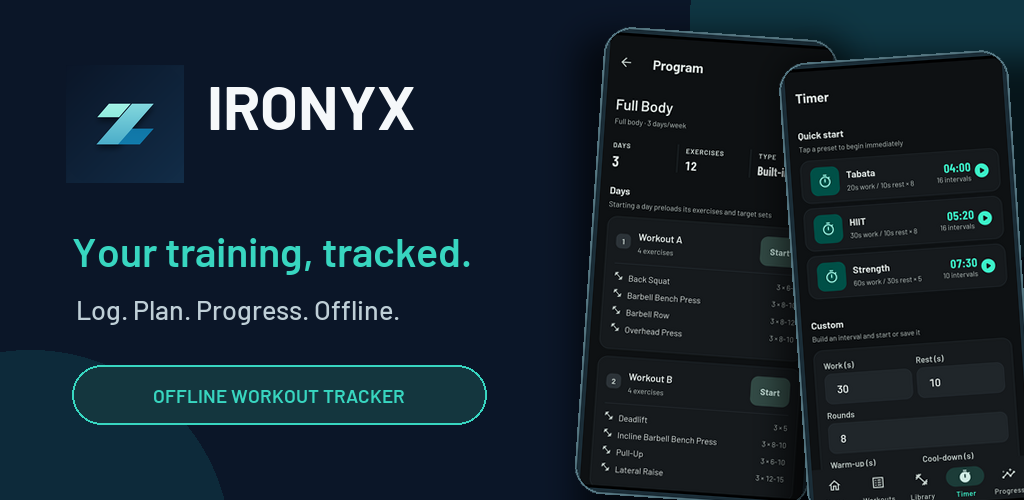
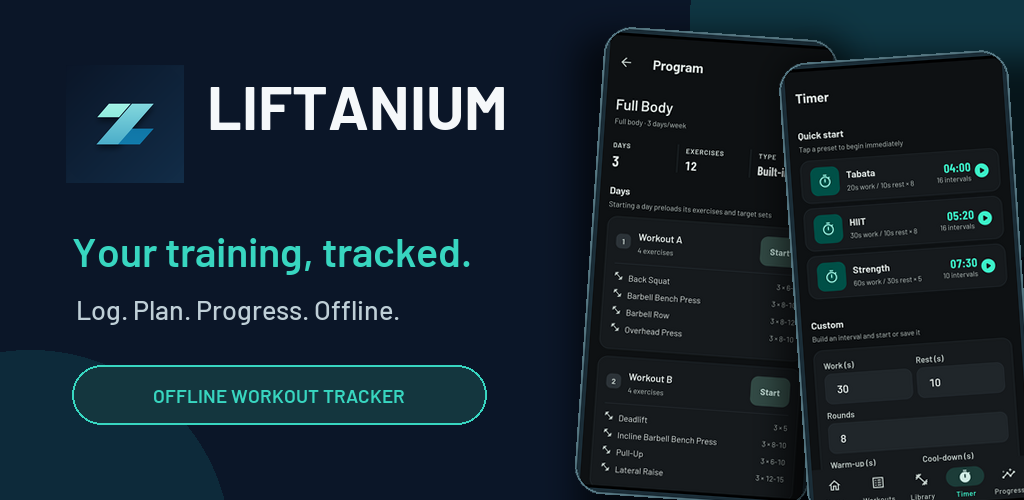
feat(brand): rename the app to Liftanium (display names only)
What users read changes: launcher label, iOS display name, app title and
the strings that name the app (en, ar), import messages, export file
names, the Pages site, the privacy policy, the store listing copy and the
two generated store images.

Identifiers stay: com.soshe90.ironyx (Play binds the listing to it), the
auth deep-link scheme, the Dart package, the database file, seed
provenance, asset names and the Pages URLs. A test pins both halves.

Changed region(s): [[0.2188, 0.15, 0.5, 0.27]]

diff --git a/lib/features/settings/domain/export_envelope.dart b/lib/features/settings/domain/export_envelope.dart
@@ -8,7 +8,7 @@ enum ImportMode { merge, replace }
 /// translated sentence (see `ImportValidationL10n`), where the 22 refusals
 /// each had their own English message, shown as they were in any language.
 enum ImportProblem {
-  /// The file is not an Ironyx export at all.
+  /// The file is not a Liftanium export at all.
   notAnExport,
 
   /// Made by a newer version of the app: updating the app fixes it.
@@ -82,29 +82,32 @@ class ImportEnvelope {
 
   /// Parses and validates the envelope header. Throws
   /// [ImportValidationException] with a user-facing message if the file
-  /// isn't a Ironyx export or carries an unrecognized [formatVersion].
+  /// isn't a Liftanium export or carries an unrecognized [formatVersion].
   factory ImportEnvelope.parse(String jsonContent,
       {required int currentFormatVersion}) {
     final Object? decoded;
     try {
       decoded = jsonDecode(jsonContent);
     } on FormatException {
-      throw ImportValidationException('This file is not a valid Ironyx export.',
+      throw ImportValidationException(
+          'This file is not a valid Liftanium export.',
           problem: ImportProblem.notAnExport);
     }
     if (decoded is! Map<String, dynamic>) {
-      throw ImportValidationException('This file is not a valid Ironyx export.',
+      throw ImportValidationException(
+          'This file is not a valid Liftanium export.',
           problem: ImportProblem.notAnExport);
     }
 
     final Object? rawFormatVersion = decoded['formatVersion'];
     if (rawFormatVersion is! int) {
-      throw ImportValidationException('This file is not a valid Ironyx export.',
+      throw ImportValidationException(
+          'This file is not a valid Liftanium export.',
           problem: ImportProblem.notAnExport);
     }
     if (rawFormatVersion > currentFormatVersion) {
       throw ImportValidationException(
-        'This backup was made with a newer version of Ironyx '
+        'This backup was made with a newer version of Liftanium '
         '(format $rawFormatVersion). Update the app before importing.',
         problem: ImportProblem.madeByNewerApp,
       );
@@ -125,13 +128,15 @@ class ImportEnvelope {
         rawAppVersion.trim().isEmpty ||
         rawExportedAt is! String ||
         DateTime.tryParse(rawExportedAt) == null) {
-      throw ImportValidationException('This file is not a valid Ironyx export.',
+      throw ImportValidationException(
+          'This file is not a valid Liftanium export.',
           problem: ImportProblem.notAnExport);
     }
 
     final Object? rawTables = decoded['tables'];
     if (rawTables is! Map<String, dynamic>) {
-      throw ImportValidationException('This file is not a valid Ironyx export.',
+      throw ImportValidationException(
+          'This file is not a valid Liftanium export.',
           problem: ImportProblem.notAnExport);
     }
     final Map<String, List<Map<String, Object?>>> tables;
@@ -144,7 +149,8 @@ class ImportEnvelope {
               .toList(),
       };
     } on TypeError {
-      throw ImportValidationException('This file is not a valid Ironyx export.',
+      throw ImportValidationException(
+          'This file is not a valid Liftanium export.',
           problem: ImportProblem.notAnExport);
     }
 

diff --git a/test/unit/android_manifest_test.dart b/test/unit/android_manifest_test.dart
@@ -104,4 +104,30 @@ void main() {
         RegExp(r'release\s*\{.*', dotAll: true).firstMatch(gradle)!.group(0)!;
     expect(release, isNot(contains('applicationIdSuffix')));
   });
+
+  // The 2026-11-15 rename to Liftanium changed only what users read. The
+  // launcher label is set outside Dart, so nothing else notices if it drifts
+  // from the in-app title. The ids must NOT follow the name: Play ties the
+  // listing to the application id for good, and the auth deep-link scheme
+  // is on the Supabase redirect allow-list.
+  test('launcher names match the app title; store ids and scheme do not move',
+      () {
+    final Map<String, dynamic> arb =
+        jsonDecode(File('lib/l10n/app_en.arb').readAsStringSync())
+            as Map<String, dynamic>;
+    final String title = arb['appTitle'] as String;
+    expect(title, 'Liftanium');
+
+    expect(manifest, contains('android:label="$title"'));
+    expect(manifest, contains('android:scheme="com.soshe90.ironyx"'));
+
+    final String plist = File('ios/Runner/Info.plist').readAsStringSync();
+    expect(
+      RegExp('<key>CFBundleDisplayName</key>\\s*<string>$title</string>')
+          .hasMatch(plist),
+      isTrue,
+      reason: 'iOS CFBundleDisplayName must match appTitle',
+    );
+    expect(plist, contains('<string>com.soshe90.ironyx</string>'));
+  });
 }

diff --git a/lib/features/settings/presentation/widgets/data_management_section.dart b/lib/features/settings/presentation/widgets/data_management_section.dart
@@ -91,10 +91,10 @@ class DataManagementSection extends ConsumerWidget {
         DateTime.now().toIso8601String().replaceAll(RegExp('[:.]'), '-');
     final (String fileName, String mimeType) = switch (format) {
       _ExportFormat.json => (
-          'ironyx_backup_$timestamp.json',
+          'liftanium_backup_$timestamp.json',
           'application/json'
         ),
-      _ExportFormat.csv => ('ironyx_export_$timestamp.csv', 'text/csv'),
+      _ExportFormat.csv => ('liftanium_export_$timestamp.csv', 'text/csv'),
     };
 
     // Built behind a progress dialog: it reads every table, and the tile

diff --git a/lib/core/services/export_schema_upgrades.dart b/lib/core/services/export_schema_upgrades.dart
@@ -121,7 +121,7 @@ ImportEnvelope upgradeEnvelope(
   if (from == toSchemaVersion) return envelope;
   if (from > toSchemaVersion) {
     throw ImportValidationException(
-      'This backup was made by a newer version of Ironyx (database schema '
+      'This backup was made by a newer version of Liftanium (database schema '
       '$from; this app uses $toSchemaVersion). Update the app before '
       'importing it.',
       problem: ImportProblem.madeByNewerApp,

diff --git a/lib/core/services/data_export_service.dart b/lib/core/services/data_export_service.dart
@@ -214,7 +214,7 @@ class DataExportService {
 
   /// Parses and validates an export file's contents. Throws
   /// [ImportValidationException] (safe to show directly to the user) if the
-  /// file isn't a valid, current-version Ironyx export.
+  /// file isn't a valid, current-version Liftanium export.
   ImportEnvelope parseImport(String jsonContent) =>
       _parseExportEnvelope(jsonContent);
 

diff --git a/test/widget/welcome_page_test.dart b/test/widget/welcome_page_test.dart
@@ -58,7 +58,7 @@ void main() {
       (tester) async {
     await pumpWelcome(tester);
 
-    expect(find.text('Ironyx'), findsOneWidget);
+    expect(find.text('Liftanium'), findsOneWidget);
     expect(find.text('Your training, tracked.'), findsOneWidget);
     expect(find.text('Log every set and rep'), findsOneWidget);
     expect(find.text('Charts that show progress'), findsOneWidget);

diff --git a/test/widget/settings_page_test.dart b/test/widget/settings_page_test.dart
@@ -264,7 +264,7 @@ void main() {
       // to confirm the tile actually navigates there, without coupling this
       // test to Flutter's internal LicensePage implementation or to
       // `LicenseRegistry`'s global, test-run-wide registration state.
-      expect(find.text('Ironyx'), findsWidgets);
+      expect(find.text('Liftanium'), findsWidgets);
     });
 
     testWidgets(

diff --git a/scripts/create_store_overview.py b/scripts/create_store_overview.py
@@ -108,7 +108,7 @@ def create_feature_graphic() -> None:
     icon = icon.resize((118, 118), Image.Resampling.LANCZOS)
     canvas.paste(icon, (66, 65))
     draw = ImageDraw.Draw(canvas)
-    draw.text((207, 69), "IRONYX", font=font("Barlow-Bold.ttf", 61), fill=(245, 248, 250))
+    draw.text((207, 69), "LIFTANIUM", font=font("Barlow-Bold.ttf", 61), fill=(245, 248, 250))
     draw.text((72, 226), "Your training, tracked.", font=font("Barlow-SemiBold.ttf", 41), fill=(56, 214, 192))
     draw.text((76, 293), "Log. Plan. Progress. Offline.", font=font("Barlow-Medium.ttf", 27), fill=(191, 207, 215))
     draw.rounded_rectangle((72, 365, 486, 424), radius=29, fill=(20, 54, 62), outline=(56, 214, 192), width=2)
@@ -128,7 +128,7 @@ def main() -> None:
     draw.ellipse((790, -230, 1320, 300), fill=(15, 54, 67))
     draw.ellipse((-260, 1500, 300, 2060), fill=(13, 42, 58))
 
-    draw.text((76, 64), "IRONYX  /  WORKOUT TRACKER", font=font("Barlow-Bold.ttf", 25), fill=(56, 214, 192))
+    draw.text((76, 64), "LIFTANIUM  /  WORKOUT TRACKER", font=font("Barlow-Bold.ttf", 25), fill=(56, 214, 192))
     draw.text((72, 123), "Your training,", font=font("Barlow-SemiBold.ttf", 87), fill=(245, 248, 250))
     draw.text((72, 218), "tracked.", font=font("Barlow-SemiBold.ttf", 87), fill=(56, 214, 192))
     draw.text((78, 331), "Plan sessions. Log every set. Keep progressing.", font=font("Barlow-Medium.ttf", 34), fill=(191, 207, 215))

diff --git a/linux/runner/my_application.cc b/linux/runner/my_application.cc
@@ -45,11 +45,11 @@ static void my_application_activate(GApplication* application) {
   if (use_header_bar) {
     GtkHeaderBar* header_bar = GTK_HEADER_BAR(gtk_header_bar_new());
     gtk_widget_show(GTK_WIDGET(header_bar));
-    gtk_header_bar_set_title(header_bar, "ironyx");
+    gtk_header_bar_set_title(header_bar, "Liftanium");
     gtk_header_bar_set_show_close_button(header_bar, TRUE);
     gtk_window_set_titlebar(window, GTK_WIDGET(header_bar));
   } else {
-    gtk_window_set_title(window, "ironyx");
+    gtk_window_set_title(window, "Liftanium");
   }
 
   gtk_window_set_default_size(window, 1280, 720);

diff --git a/docs/STORE_LISTING.md b/docs/STORE_LISTING.md
@@ -1,4 +1,4 @@
-# Play Store listing — Ironyx
+# Play Store listing — Liftanium
 
 Draft copy. Character counts noted so it drops straight into Play Console.
 Swap wording freely — the positioning (offline-first, private, no forced
@@ -25,9 +25,9 @@ them against the live consoles.
 ## App name (30 char max)
 
 ```
-Ironyx: Offline Workout Log
+Liftanium: Offline Workout Log
 ```
-(27 characters)
+(30 characters: exactly the limit)
 
 ## Short description (80 char max)
 
@@ -49,7 +49,7 @@ Log every set, follow your training plan, and see your progress — offline.
 ### English
 
 ```
-Make every workout count with Ironyx, a workout tracker that keeps your training log on your device and works offline.
+Make every workout count with Liftanium, a workout tracker that keeps your training log on your device and works offline.
 
 LOG YOUR WORKOUTS
 Record exercises, sets, reps, and weights as you train. Check your workout history whenever you need it, and use the built-in rest timer to stay focused between sets.
@@ -61,7 +61,7 @@ SEE HOW YOU’RE PROGRESSING
 Follow your training over time with charts for workout volume, estimated one-rep max, and consistency. Your history helps you see the work behind your progress.
 
 YOUR TRAINING, YOUR CHOICE
-No account is needed to use the core workout tracker. Your workouts are stored on your device, and Ironyx does not show ads or use analytics. If you choose to create an account, you can manually back up your data to the cloud. Nothing is backed up until you choose “Back up now.”
+No account is needed to use the core workout tracker. Your workouts are stored on your device, and Liftanium does not show ads or use analytics. If you choose to create an account, you can manually back up your data to the cloud. Nothing is backed up until you choose “Back up now.”
 
 TRAIN OFFLINE
 No internet at the gym? Keep logging workouts, using your programs and timer, and viewing your progress offline.
@@ -74,7 +74,7 @@ Questions or feedback: mustafa.salih15@gmail.com
 ### Arabic
 
 ```
-اجعل لكل تمرين قيمة مع Ironyx، تطبيق يساعدك على تسجيل تدريباتك ومتابعة تقدمك، مع حفظ سجلّك على جهازك وإمكانية استخدام الميزات الأساسية دون إنترنت.
+اجعل لكل تمرين قيمة مع Liftanium، تطبيق يساعدك على تسجيل تدريباتك ومتابعة تقدمك، مع حفظ سجلّك على جهازك وإمكانية استخدام الميزات الأساسية دون إنترنت.
 
 سجّل تمارينك
 دوّن التمارين والمجموعات والتكرارات والأوزان أثناء التدريب، وارجع إلى سجل تمارينك متى احتجت. استخدم مؤقّت الراحة المدمج لتنظيم فترات الراحة بين المجموعات.
@@ -86,7 +86,7 @@ Questions or feedback: mustafa.salih15@gmail.com
 استخدم الرسوم البيانية لمتابعة حجم التدريب، والقوة التقديرية لتكرار واحد، وانتظامك في التمرين بمرور الوقت. راجع سجلّك لترى كيف يتراكم جهدك.
 
 تدريبك وبياناتك تحت اختيارك
-لا تحتاج إلى حساب لاستخدام الميزات الأساسية. تُحفظ تمارينك على جهازك، ولا يعرض Ironyx إعلانات ولا يستخدم أدوات التحليلات. إذا رغبت، يمكنك إنشاء حساب وعمل نسخة احتياطية من بياناتك على السحابة يدويًا. لا تُرفع بياناتك حتى تختار «النسخ الاحتياطي الآن».
+لا تحتاج إلى حساب لاستخدام الميزات الأساسية. تُحفظ تمارينك على جهازك، ولا يعرض Liftanium إعلانات ولا يستخدم أدوات التحليلات. إذا رغبت، يمكنك إنشاء حساب وعمل نسخة احتياطية من بياناتك على السحابة يدويًا. لا تُرفع بياناتك حتى تختار «النسخ الاحتياطي الآن».
 
 تدرّب دون إنترنت
 لا يوجد اتصال بالإنترنت في النادي؟ واصل تسجيل تمارينك واستخدام برامجك والمؤقّت والاطلاع على تقدمك دون اتصال.
@@ -196,7 +196,7 @@ build does not support just because a row here says so.
 
 | Play Console form | Answer |
 |---|---|
-| App details | Name `Ironyx: Offline Workout Log`; **App**, **Free**; category **Health & Fitness**; contact `mustafa.salih15@gmail.com` |
+| App details | Name `Liftanium: Offline Workout Log`; **App**, **Free**; category **Health & Fitness**; contact `mustafa.salih15@gmail.com` |
 | Store listing | Short and full description from above; icon `assets/branding/ironyx-icon-512-opaque.png`; feature graphic (S2); the screenshots (S1) |
 | App access | **All functionality is available without special access.** Accounts are optional and unlock only cloud backup, so no test login is needed |
 | Ads | **No**, the app contains no ads |
@@ -223,7 +223,7 @@ subtitle and keywords.
 
 | Field | Draft | Length |
 |---|---|---|
-| Name | `Ironyx: Workout Log` | 19 |
+| Name | `Liftanium: Workout Log` | 22 |
 | Subtitle | `Offline. Private. No account.` | 29 |
 | Keywords | `gym,lifting,strength,training,tracker,routine,progress,1RM,program,rest timer,exercise,fitness` | 94 |
 
@@ -240,7 +240,7 @@ questionnaire (same answers as Data Safety above).
 | "No account required. No internet required." | True — auth is optional and everything core is local |
 | "Pick from a library of 300+ exercises" | True — 304, seed v18 (the earlier plan said 150) |
 | "A built-in rest timer **with sound** and haptics" | **True on Android** as of 2026-09-20: three bundled cues (countdown, phase change, completion) play through `just_audio`, ducking other audio — confirmed in logcat on an Android 15 emulator's release build. Not yet heard on a physical device, and not checked on iOS at all. Re-verify both before claiming it for iOS |
-| "Ironyx does not run ads or analytics" | True today (no such SDK in `pubspec.yaml`). **Breaks if D2 adds Sentry** — crash reporting is not "analytics", but the privacy policy currently says "no crash-reporting service" too |
+| "Liftanium does not run ads or analytics" | True today (no such SDK in `pubspec.yaml`). **Breaks if D2 adds Sentry** — crash reporting is not "analytics", but the privacy policy currently says "no crash-reporting service" too |
 | "Your local training log stays on your device unless you explicitly enable cloud backup" | True. Nothing uploads without tapping "Back up now" |
 | "Charts show volume, estimated one-rep max, and consistency" | True — Progress phases 0–4 shipped |
 | "Available in English and Arabic" | True |

diff --git a/docs/PRIVACY_POLICY.md b/docs/PRIVACY_POLICY.md
@@ -2,24 +2,24 @@
 title: Privacy Policy
 permalink: /privacy/
 ---
-# Privacy Policy — Ironyx
+# Privacy Policy — Liftanium
 
-**Last updated: September 21, 2026**
+**Last updated: November 15, 2026**
 
-Ironyx ("the app") is an offline-first workout and fitness log. This policy
+Liftanium ("the app") is an offline-first workout and fitness log. This policy
 explains what data the app collects, where it goes, how it is used, and what
-choices you have. Ironyx is not a medical device and is not a substitute for
+choices you have. Liftanium is not a medical device and is not a substitute for
 professional medical advice, diagnosis, or treatment. If anything here is
 unclear, contact mustafa.salih15@gmail.com.
 
 ## The short version
 
-- You can use Ironyx completely without an account. In that mode, nothing
+- You can use Liftanium completely without an account. In that mode, nothing
   you enter ever leaves your device.
 - Creating an account is optional and exists only to enable an opt-in
   cloud backup feature. It does not unlock any other functionality.
 - We do not run ads, analytics, or trackers of any kind. We do not sell your
-  data. The only service provider that receives data from Ironyx is Supabase,
+  data. The only service provider that receives data from Liftanium is Supabase,
   and only when you use the account or optional cloud-backup features.
 
 ## Data stored only on your device
@@ -37,7 +37,7 @@ explicitly use the cloud backup feature described below:
   session target
 - App settings (units, sound, haptics, language)
 
-Ironyx does not connect to Google Fit, Health Connect, Apple Health, or other
+Liftanium does not connect to Google Fit, Health Connect, Apple Health, or other
 health platforms, and it does not collect location, heart rate, steps, or
 other sensor data.
 
@@ -46,7 +46,7 @@ copy unless you have used cloud backup (below). You can also export your
 data to a file at any time from Settings, and delete all local data from
 Settings without uninstalling.
 
-On Android, Ironyx opts out of the operating system's automatic app backup
+On Android, Liftanium opts out of the operating system's automatic app backup
 to Google Drive, so neither your local database nor your sign-in session is
 copied there by Android. Use the export file or the optional cloud backup
 if you want a copy that survives a reinstall.
@@ -108,19 +108,19 @@ other permission not listed here.
 
 ## Analytics, advertising, and third parties
 
-Ironyx contains no analytics SDK, no advertising SDK, and no crash-reporting
+Liftanium contains no analytics SDK, no advertising SDK, and no crash-reporting
 service. The only third-party service the app talks to is Supabase. Supabase
 provides email/password authentication and stores the optional cloud backup
 when you explicitly use that feature. Supabase may process this information
 as our service provider under its own terms and privacy policy. Supabase
 sends the sign-up and password-reset emails through the email-sending service
-described above. Ironyx does not sell data or use it for advertising or
+described above. Liftanium does not sell data or use it for advertising or
 behavioral tracking.
 
 ## Data deletion and your choices
 
 - **Local data:** Settings → Data Management → Delete everything. You can
-  also uninstall Ironyx or export your data before deleting it. Local data is
+  also uninstall Liftanium or export your data before deleting it. Local data is
   not recoverable after deletion unless you previously made a cloud backup or
   export.
 - **Account and cloud backup:** If you use an account, Settings → Account →
@@ -136,7 +136,7 @@ behavioral tracking.
 
 ## Children's privacy
 
-Ironyx is not directed at children under 13, and we do not knowingly collect
+Liftanium is not directed at children under 13, and we do not knowingly collect
 data from children under 13. If you believe a child has provided personal
 data, contact us so we can investigate and delete it where appropriate.
 

diff --git a/TODO.md b/TODO.md
@@ -10,6 +10,46 @@ Owner tags: **me** = you, the account holder (consoles, passwords, devices);
 
 ## Where the app really stands
 
+**Rename to Liftanium, 2026-11-15, branch `rename/liftanium-2026-11-15`.**
+The owner chose the name "Liftanium" (lift + titanium). Their own check on
+2026-11-15 found no exact match on Google Play US, in the first five
+Apple US results or on DuckDuckGo. **Not checked:** trademark registers,
+domains, social handles, similar-sounding brands and other countries'
+stores.
+
+- **Changed (what users read):** Android launcher label, iOS
+  `CFBundleDisplayName`/`CFBundleName`, `appTitle` and the 7 other
+  English and Arabic strings that named the app (Arabic keeps the Latin
+  spelling, as it did for Ironyx), import-refusal messages, export file
+  names (`liftanium_backup_*.json`, `liftanium_export_*.csv`), the Linux
+  window title, the VS Code launch names, the Pages site (`docs/index.md`,
+  `delete-account.md`, the privacy policy, now "Last updated November 15,
+  2026"), `docs/STORE_LISTING.md` (Play name `Liftanium: Offline Workout
+  Log` is exactly 30 characters, the limit), and the feature graphic and
+  `09-store-overview.png`, regenerated with `scripts/create_store_overview.py`.
+- **Kept on purpose (identifiers, not names):** application/bundle id
+  `com.soshe90.ironyx` (Play binds the listing to it permanently; a new id
+  would be a new app and restart the closed test), the auth deep-link
+  scheme (on the Supabase redirect allow-list), the Dart package
+  `ironyx`, the database file `ironyx` (renaming it would strand every
+  user's data), the seed source id and licence text in
+  `exercises_seed.json` (provenance records the UI does not show; changing
+  them needs a seed bump), asset file names, the `ironyx_navy` colour,
+  `IronyxApp`, the keystore alias, and the GitHub repo and Pages URLs
+  (`soshe90.github.io/Ironyx/...`, already entered in Play Console).
+  Old backups import as before: the envelope never held the app name.
+- **Test added:** `android_manifest_test.dart` pins the Android label and
+  iOS display name to `appTitle`, and the store id and scheme to
+  `com.soshe90.ironyx`. Two widget tests now expect "Liftanium".
+- **Gates (tested):** format and analyze clean, asset licences OK,
+  `flutter test` 1,228 passed, 2 skipped, 0 failed.
+- **Not done:** store screenshot `08-settings-theme.png` still shows
+  "Ironyx stores everything on this device" and needs a new capture
+  (phone use needs the owner's approval). Play Console's app name, store
+  listing text and graphics must be changed by hand. No build was made:
+  **not in any release bundle**; 1.0.6+7 still says Ironyx, so the next
+  bundle needs a version bump. Not run on a device.
+
 **Phone check, 2026-11-15, SM N970F, debug copy of `main` at `c4f83e2`**
 (owner-approved; the Play app, 1.0.5, was not opened or changed). The
 debug copy had been uninstalled since 2026-11-13, so this was a fresh
